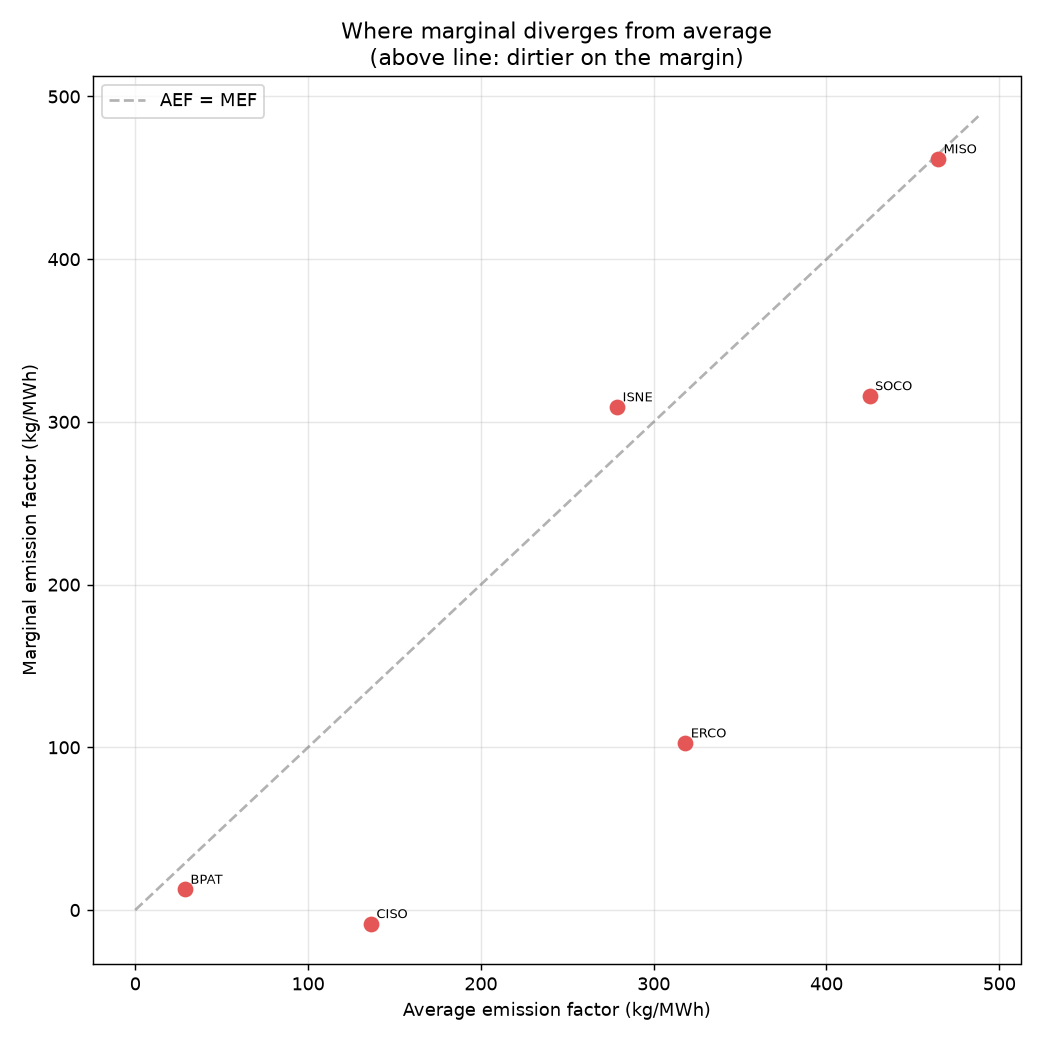
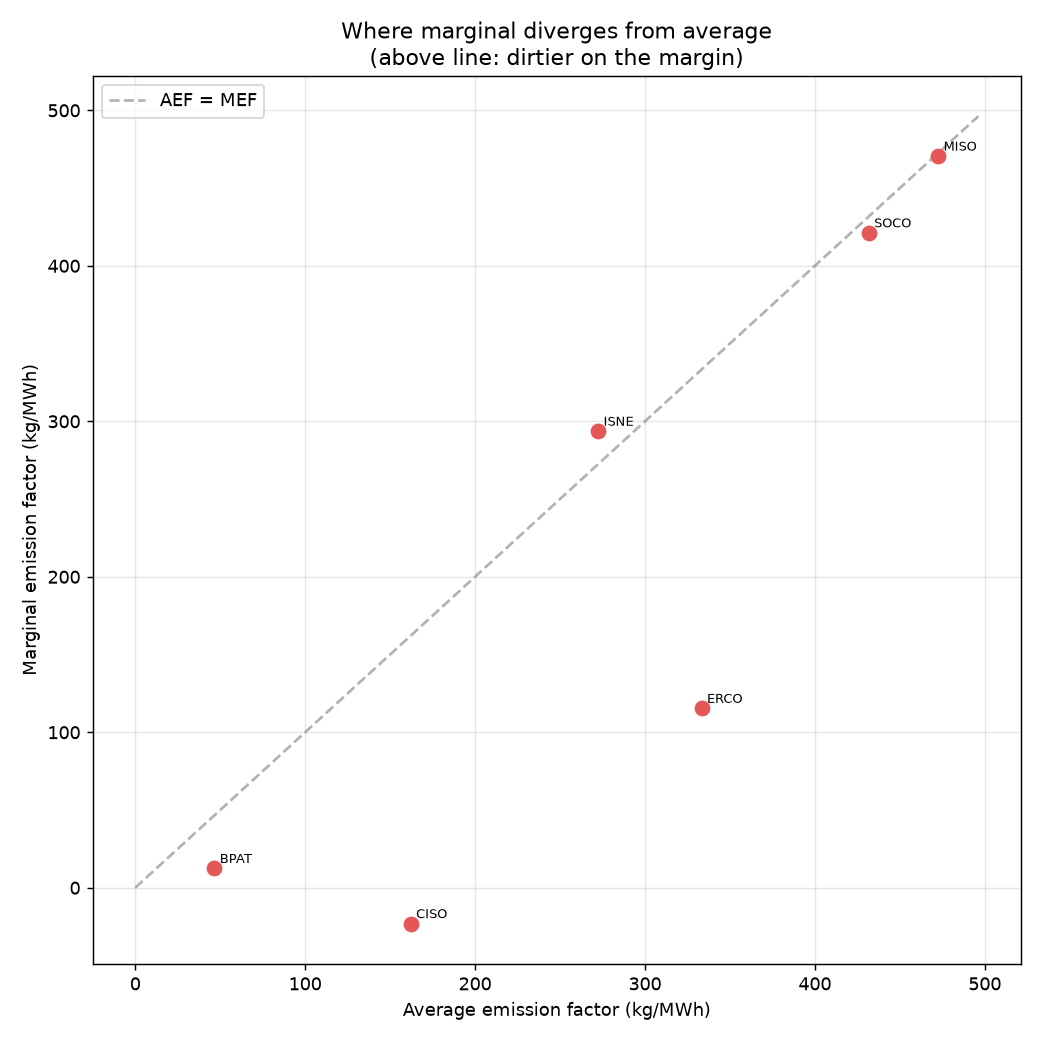
chore: EIA refresh 2026-10-03

diff --git a/docs/report.md b/docs/report.md
@@ -6,12 +6,12 @@ Balancing authorities analyzed: **6**
 
 | Rank | BA | MEF (kg/MWh) | AEF (kg/MWh) | rank shift (avg→marg) |
 |---:|---|---:|---:|---:|
-| 1 | CISO | -8 | 136 | +1 |
-| 2 | BPAT | 13 | 29 | -1 |
-| 3 | ERCO | 103 | 318 | +1 |
-| 4 | ISNE | 309 | 279 | -1 |
-| 5 | SOCO | 316 | 425 | +0 |
-| 6 | MISO | 462 | 465 | +0 |
+| 1 | CISO | -23 | 162 | +1 |
+| 2 | BPAT | 12 | 47 | -1 |
+| 3 | ERCO | 115 | 333 | +1 |
+| 4 | ISNE | 294 | 272 | -1 |
+| 5 | SOCO | 421 | 432 | +0 |
+| 6 | MISO | 471 | 473 | +0 |
 
 ## Rank inversions (average-based analysis gets these wrong)
 
